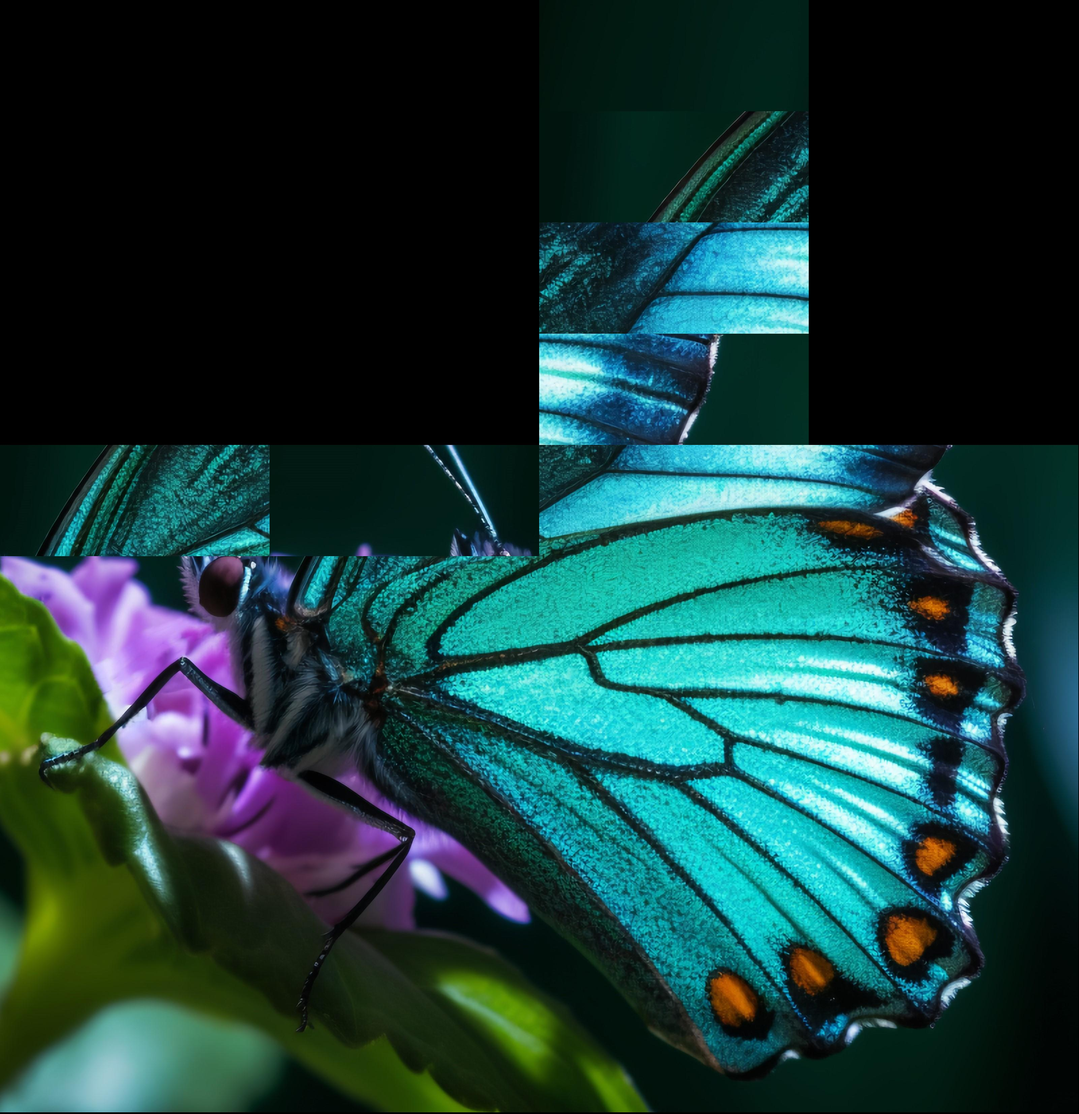
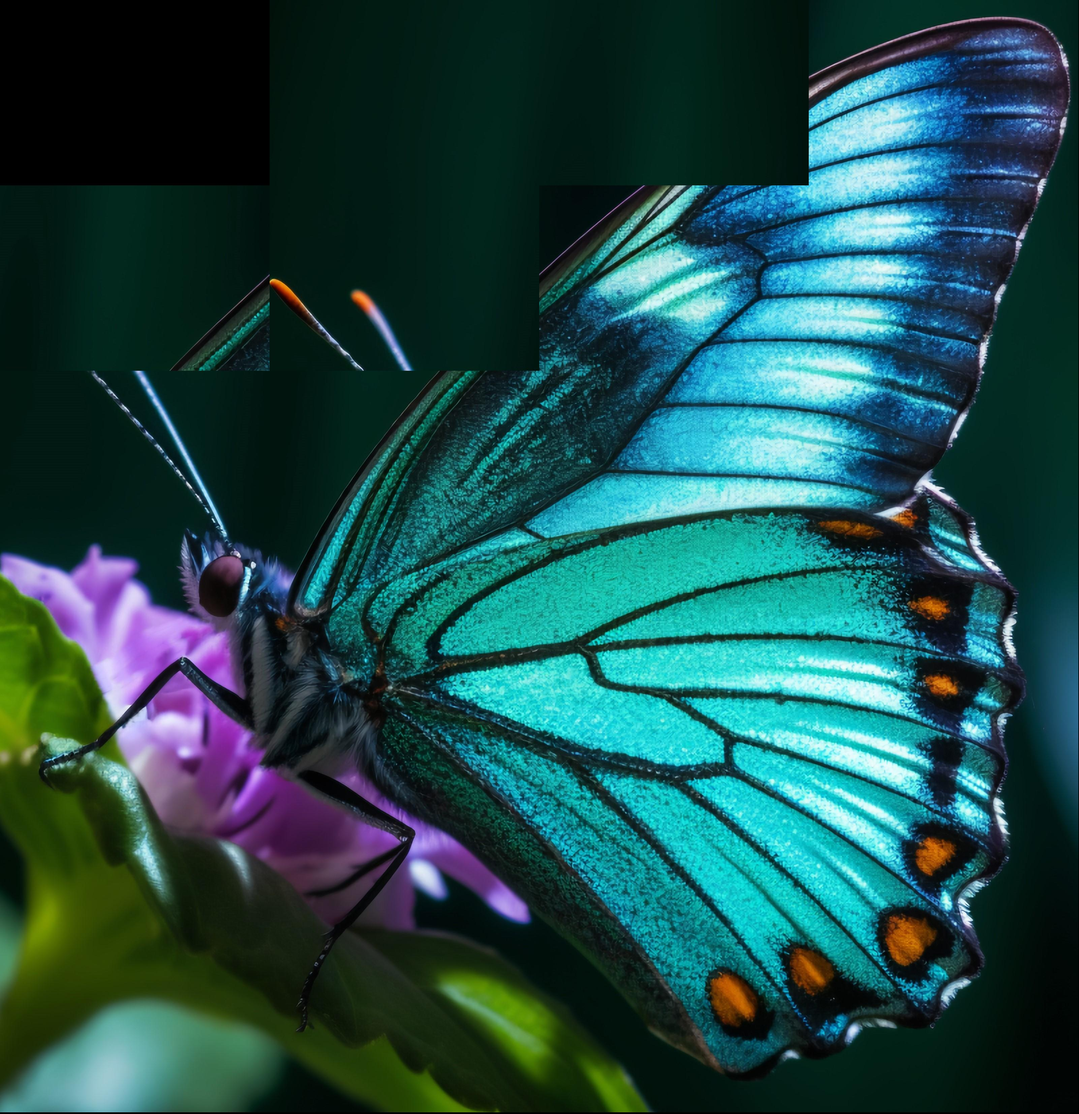
Update Code

diff --git a/meme.py b/meme.py
@@ -4,31 +4,31 @@ import random
 from PIL import Image
 import pygame
 
-WINDOW_WIDTH, WINDOW_HEIGHT = 400, 600
-BLOCK_COLUMNS, BLOCK_ROWS = 4, 10
-BACKGROUND_COLOR = (255, 255, 255)  # White background
-TEXT_COLOR = (0, 0, 0)
-FPS = 60
+WINDOW_WIDTH, WINDOW_HEIGHT = 500, 600
+BLOCK_COLUMNS, BLOCK_ROWS = 4, 6
+BACKGROUND_COLOR = (0, 0, 0)  # Black background
+TEXT_COLOR = (255, 255, 255)  # White text
+ACCENT_COLOR = (50, 50, 50)  # Dark gray for UI elements
+BORDER_COLOR = (100, 100, 100)  # Light gray for borders
+
+INITIAL_FALL_SPEED = 1  # Initial speed (blocks per second)
+SPEED_INCREASE_RATE = 0.05  # Speed increase per block placed
 
 def encode_to_meme(input_file, output_file):
-    # Simply copy the file with a new extension
     shutil.copy(input_file, output_file)
 
 def decode_from_meme(input_file, output_file):
-    # Load the image
     img = Image.open(input_file)
     orig_width, orig_height = img.size
     block_width, block_height = orig_width // BLOCK_COLUMNS, orig_height // BLOCK_ROWS
 
-    # Initialize Pygame
     pygame.init()
-    screen = pygame.display.set_mode((WINDOW_WIDTH, WINDOW_HEIGHT + 50))  # Extra space for text
+    screen = pygame.display.set_mode((WINDOW_WIDTH, WINDOW_HEIGHT + 100))  # Extra space for UI
     pygame.display.set_caption("Image Tetris")
     clock = pygame.time.Clock()
 
     scale_x, scale_y = WINDOW_WIDTH / orig_width, WINDOW_HEIGHT / orig_height
 
-    # Split the image into 4x10 blocks
     blocks = []
     for y in range(BLOCK_ROWS):
         for x in range(BLOCK_COLUMNS):
@@ -36,15 +36,15 @@ def decode_from_meme(input_file, output_file):
                               (x + 1) * block_width, (y + 1) * block_height))
             blocks.append(block)
 
-    # Shuffle the blocks
     # random.shuffle(blocks)
 
-    # Game variables
     current_block = None
     current_x, current_y = 1, 0
     grid = [[None for _ in range(BLOCK_COLUMNS)] for _ in range(BLOCK_ROWS)]
     game_over = False
     font = pygame.font.Font(None, 36)
+    fall_speed = INITIAL_FALL_SPEED
+    fall_timer = 0
 
     def new_block():
         nonlocal current_block, current_x, current_y
@@ -65,6 +65,10 @@ def decode_from_meme(input_file, output_file):
                         block_surface, (int(block_width * scale_x), int(block_height * scale_y))
                     )
                     screen.blit(block_surface, (x * block_width * scale_x, y * block_height * scale_y))
+                else:
+                    pygame.draw.rect(screen, ACCENT_COLOR, 
+                                     (x * block_width * scale_x, y * block_height * scale_y, 
+                                      block_width * scale_x, block_height * scale_y), 1)
 
     def draw_current_block():
         if current_block:
@@ -82,38 +86,58 @@ def decode_from_meme(input_file, output_file):
         return False
 
     def place_block():
+        nonlocal fall_speed
         grid[current_y][current_x] = current_block
+        fall_speed += SPEED_INCREASE_RATE
         return new_block()
+
+    def draw_ui():
+        pygame.draw.rect(screen, ACCENT_COLOR, (0, WINDOW_HEIGHT, WINDOW_WIDTH, 100))
+        pygame.draw.line(screen, BORDER_COLOR, (0, WINDOW_HEIGHT), (WINDOW_WIDTH, WINDOW_HEIGHT), 2)
+        
+        remaining_text = font.render(f"Remaining: {len(blocks)}", True, TEXT_COLOR)
+        screen.blit(remaining_text, (10, WINDOW_HEIGHT + 10))
+        
+        speed_text = font.render(f"Speed: {fall_speed:.1f}", True, TEXT_COLOR)
+        screen.blit(speed_text, (10, WINDOW_HEIGHT + 50))
+
+    def draw_text_middle(text, size, color, surface, y_offset=0):
+        fontpath = None  # Default system font
+        font = pygame.font.Font(fontpath, size, bold=False, italic=True)
+        label = font.render(text, 1, color)
+        surface.blit(label, (WINDOW_WIDTH // 2 - label.get_width() // 2, WINDOW_HEIGHT // 2 + y_offset - label.get_height() // 2))
+
+    def display_instructions():
+        screen.fill(BACKGROUND_COLOR)
+        instructions = [
+            "Image Tetris Instructions:",
+            "Left/Right: Move",
+            "Down: Soft Drop",
+            "Space: Hard Drop",
+            "Press any key to start"
+        ]
+        for i, line in enumerate(instructions):
+            draw_text_middle(line, 35, TEXT_COLOR, screen, y_offset=-100 + i * 40)
+        pygame.display.flip()
+        
+        waiting = True
+        while waiting:
+            for event in pygame.event.get():
+                if event.type == pygame.QUIT:
+                    pygame.quit()
+                    return
+                if event.type == pygame.KEYDOWN:
+                    waiting = False
 
     new_block()
 
-    # Show instructions
-    screen.fill(BACKGROUND_COLOR)
-    instructions = [
-        "Image Tetris Instructions:",
-        "Left Arrow: Move Left",
-        "Right Arrow: Move Right",
-        "Down Arrow: Move Down",
-        "Space: Drop Block",
-        "Press any key to start"
-    ]
-    for i, line in enumerate(instructions):
-        text = font.render(line, True, TEXT_COLOR)
-        screen.blit(text, (10, 10 + i * 40))
-    pygame.display.flip()
-    
-    waiting = True
-    while waiting:
-        for event in pygame.event.get():
-            if event.type == pygame.QUIT:
-                pygame.quit()
-                return
-            if event.type == pygame.KEYDOWN:
-                waiting = False
+    display_instructions()
 
-    # Game loop
     running = True
     while running and not game_over:
+        dt = clock.tick(60) / 1000.0  # Delta time in seconds
+        fall_timer += dt
+
         for event in pygame.event.get():
             if event.type == pygame.QUIT:
                 running = False
@@ -122,42 +146,41 @@ def decode_from_meme(input_file, output_file):
                     current_x -= 1
                 elif event.key == pygame.K_RIGHT and not check_collision(current_x + 1, current_y):
                     current_x += 1
-                elif event.key == pygame.K_DOWN and not check_collision(current_x, current_y + 1):
-                    current_y += 1
+                elif event.key == pygame.K_DOWN:
+                    if not check_collision(current_x, current_y + 1):
+                        current_y += 1
+                    fall_timer = 0
                 elif event.key == pygame.K_SPACE:
                     while not check_collision(current_x, current_y + 1):
                         current_y += 1
                     if not place_block():
                         running = False
+                    fall_timer = 0
 
-        if not check_collision(current_x, current_y + 1):
-            current_y += 1
-        else:
-            if not place_block():
-                running = False
+        if fall_timer > 1 / fall_speed:
+            if not check_collision(current_x, current_y + 1):
+                current_y += 1
+            else:
+                if not place_block():
+                    running = False
+            fall_timer = 0
 
         screen.fill(BACKGROUND_COLOR)
         draw_grid()
         draw_current_block()
-
-        # Display remaining blocks
-        text = font.render(f"Remaining blocks: {len(blocks)}", True, TEXT_COLOR)
-        screen.blit(text, (10, WINDOW_HEIGHT + 10))
+        draw_ui()
 
         pygame.display.flip()
-        clock.tick(5)  # Adjust game speed
 
-    # Game over
     screen.fill(BACKGROUND_COLOR)
     if len(blocks) == 0:
-        text = font.render("Congratulations! You completed the image!", True, (0, 255, 0))
+        text = font.render("Congratulations! Image completed!", True, (0, 255, 0))
     else:
-        text = font.render("Game Over! Saving current progress...", True, (255, 0, 0))
+        text = font.render("Game Over! Saving progress...", True, (255, 0, 0))
     screen.blit(text, (WINDOW_WIDTH // 2 - text.get_width() // 2, WINDOW_HEIGHT // 2))
     pygame.display.flip()
-    pygame.time.wait(3000)
+    pygame.time.wait(2000)
 
-    # Save the arranged image
     arranged_img = Image.new('RGB', (orig_width, orig_height))
     for y, row in enumerate(grid):
         for x, block in enumerate(row):
@@ -168,7 +191,6 @@ def decode_from_meme(input_file, output_file):
     pygame.quit()
 
 def main():
-    # Example usage
     encode_to_meme("input.jpg", "output.meme")
     decode_from_meme("output.meme", "decoded.jpg")
 
